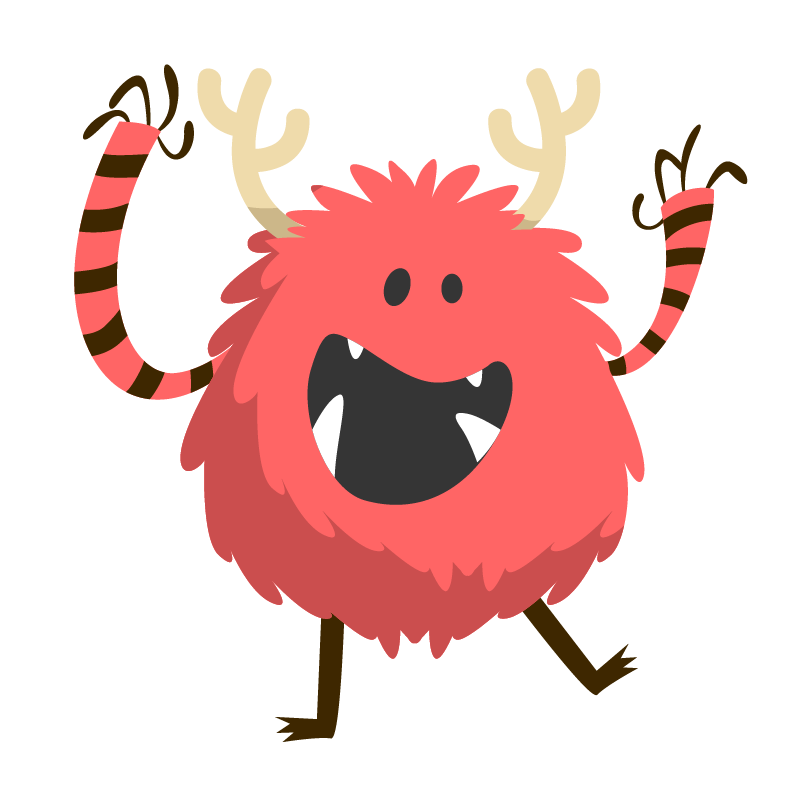
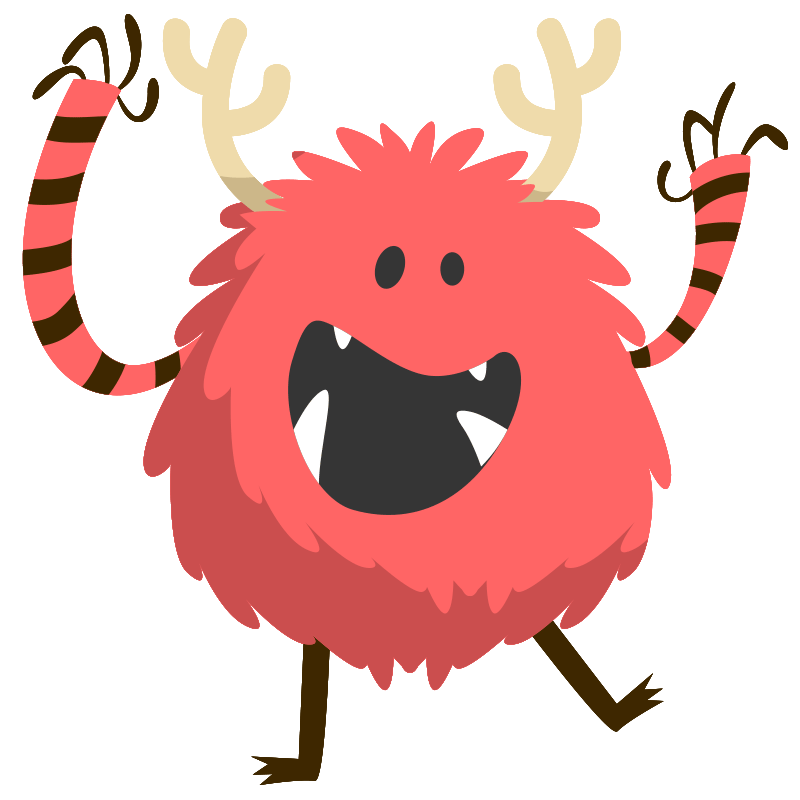
[FEATURE] Framer animate

diff --git a/src/intro/Intro.js b/src/intro/Intro.js
@@ -1,12 +1,12 @@
 import React, { useState } from "react";
-import { Row, Col } from "antd";
 import "antd/dist/antd.css";
 import Styled from "styled-components";
 import Section from "./../images/section1_bg.png";
 import Ipad from "./../images/iPadPro.png";
-import StyledContainer from "../layout/StyledContainer";
-import { Frame, Scroll, useCycle } from "framer";
+import { Frame, useCycle } from "framer";
 import BigMonster from "./../images/big.png";
+import BigMonsterGIF from "../images/bigMonsterGIF.gif";
+import useHover from "@react-hook/hover";
 
 const StyledBackground = Styled.div`
     position: absolute;
@@ -33,22 +33,41 @@ const StyledBigMonster = Styled.div`
     bottom: 450px;
     left: 15%;
     transform: translateX(-15%);
+    cursor: pointer;
 `
 const Intro = () => {
+    const [hoverRef, isHovering] = useHover(100, 100);
+    const variants = {
+        hidden: { scale: 1, y: 400 },
+        visible: { scale: 1, y: 0},
+      }
+    const transition = {
+        type: "tween",
+        ease: [0.17, 0.67, 0.83, 0.67],
+        duration: 0.5,
+    }
   return (
     <>
       <StyledBackground>
         <img src={Section} alt="logo" style={{ width: "100%" }} />
       </StyledBackground>
-
         <StyledIpadPro>
           <img src={Ipad} alt="ipad" style={{ width: "100%" }} />
         </StyledIpadPro>
-<StyledBigMonster>
+        <StyledBigMonster ref={hoverRef}>
+            {isHovering ? (
             <Frame  width={400} height={400} background={"rgba(255, 255, 255, 0)"} >
-                <img src={BigMonster} alt="logo" style={{ width: "100%" }} />
-            </Frame>
-            </StyledBigMonster>
+                <img src={BigMonsterGIF} alt="logo" style={{ width: "100%" }} />
+            </Frame>):(
+            <Frame  width={400} height={400} background={"rgba(255, 255, 255, 0)"}  initial="hidden"
+            animate="visible"
+            transition={transition}
+            variants={variants}
+            >
+            <img src={BigMonster} alt="logo" style={{ width: "100%" }} />
+            </Frame>                
+            )}
+        </StyledBigMonster>
 
     </>
   );
